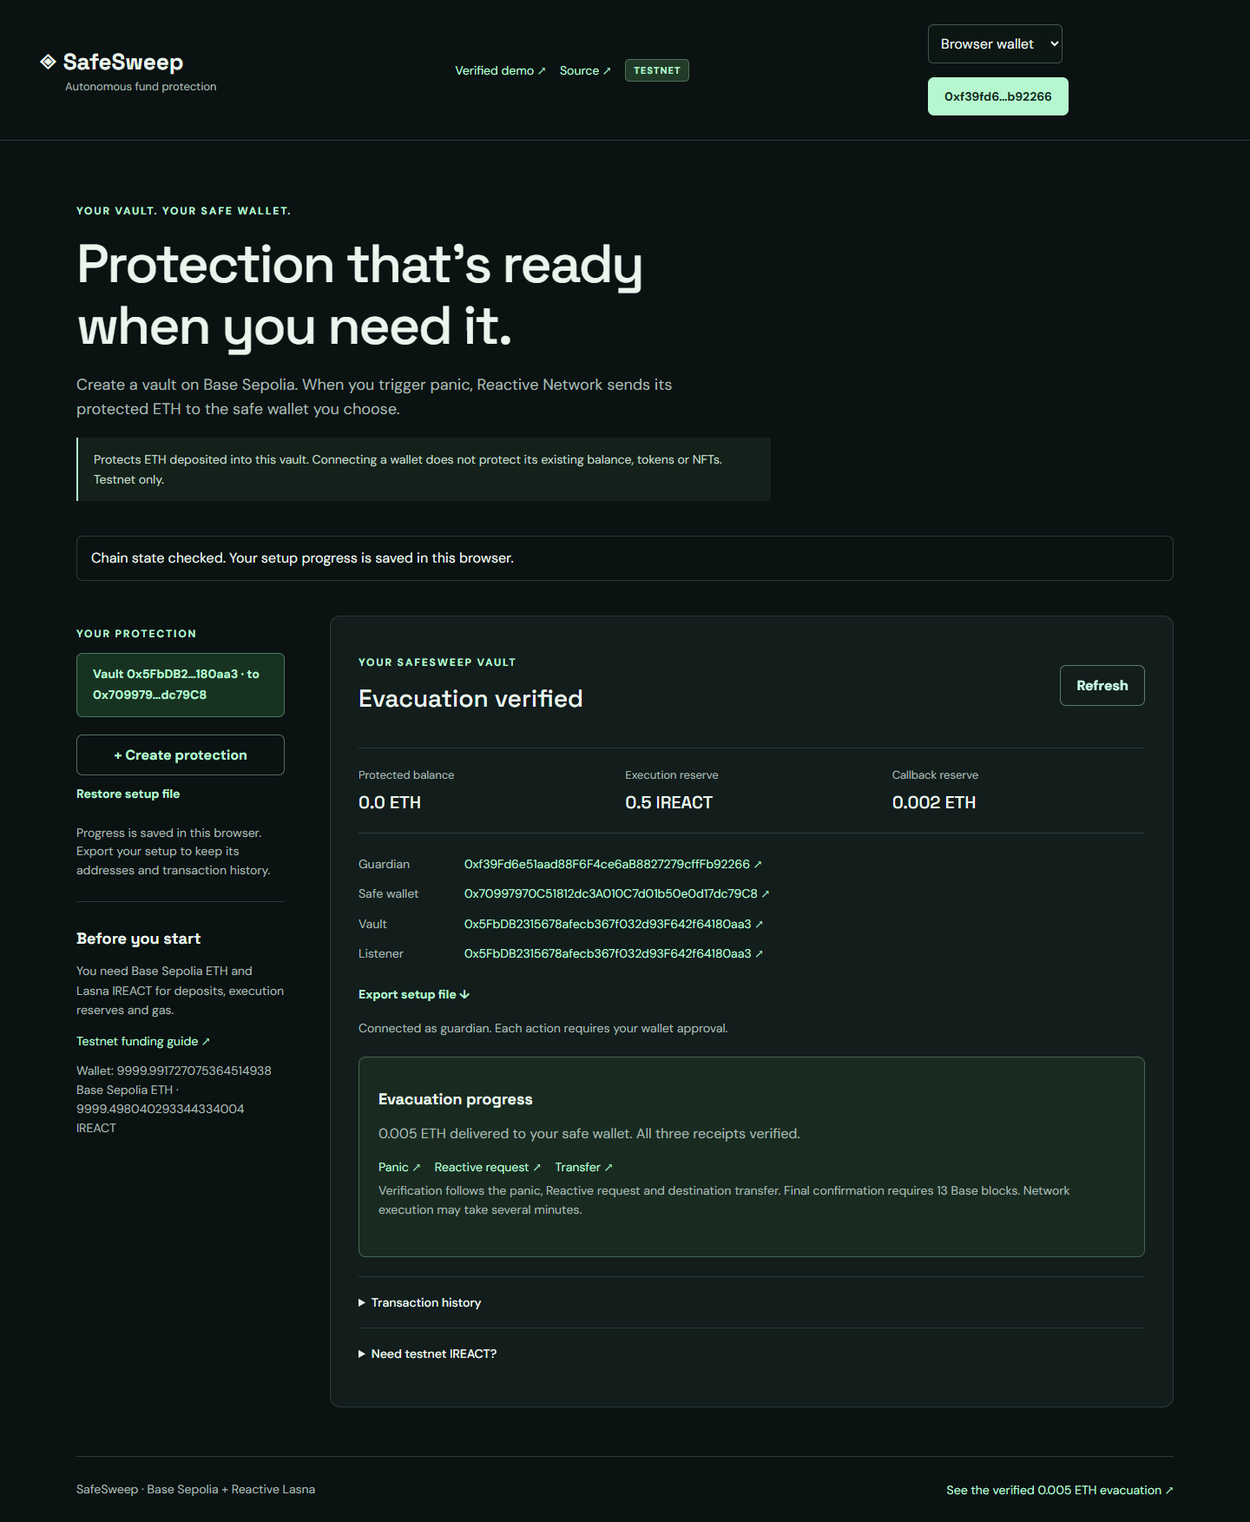
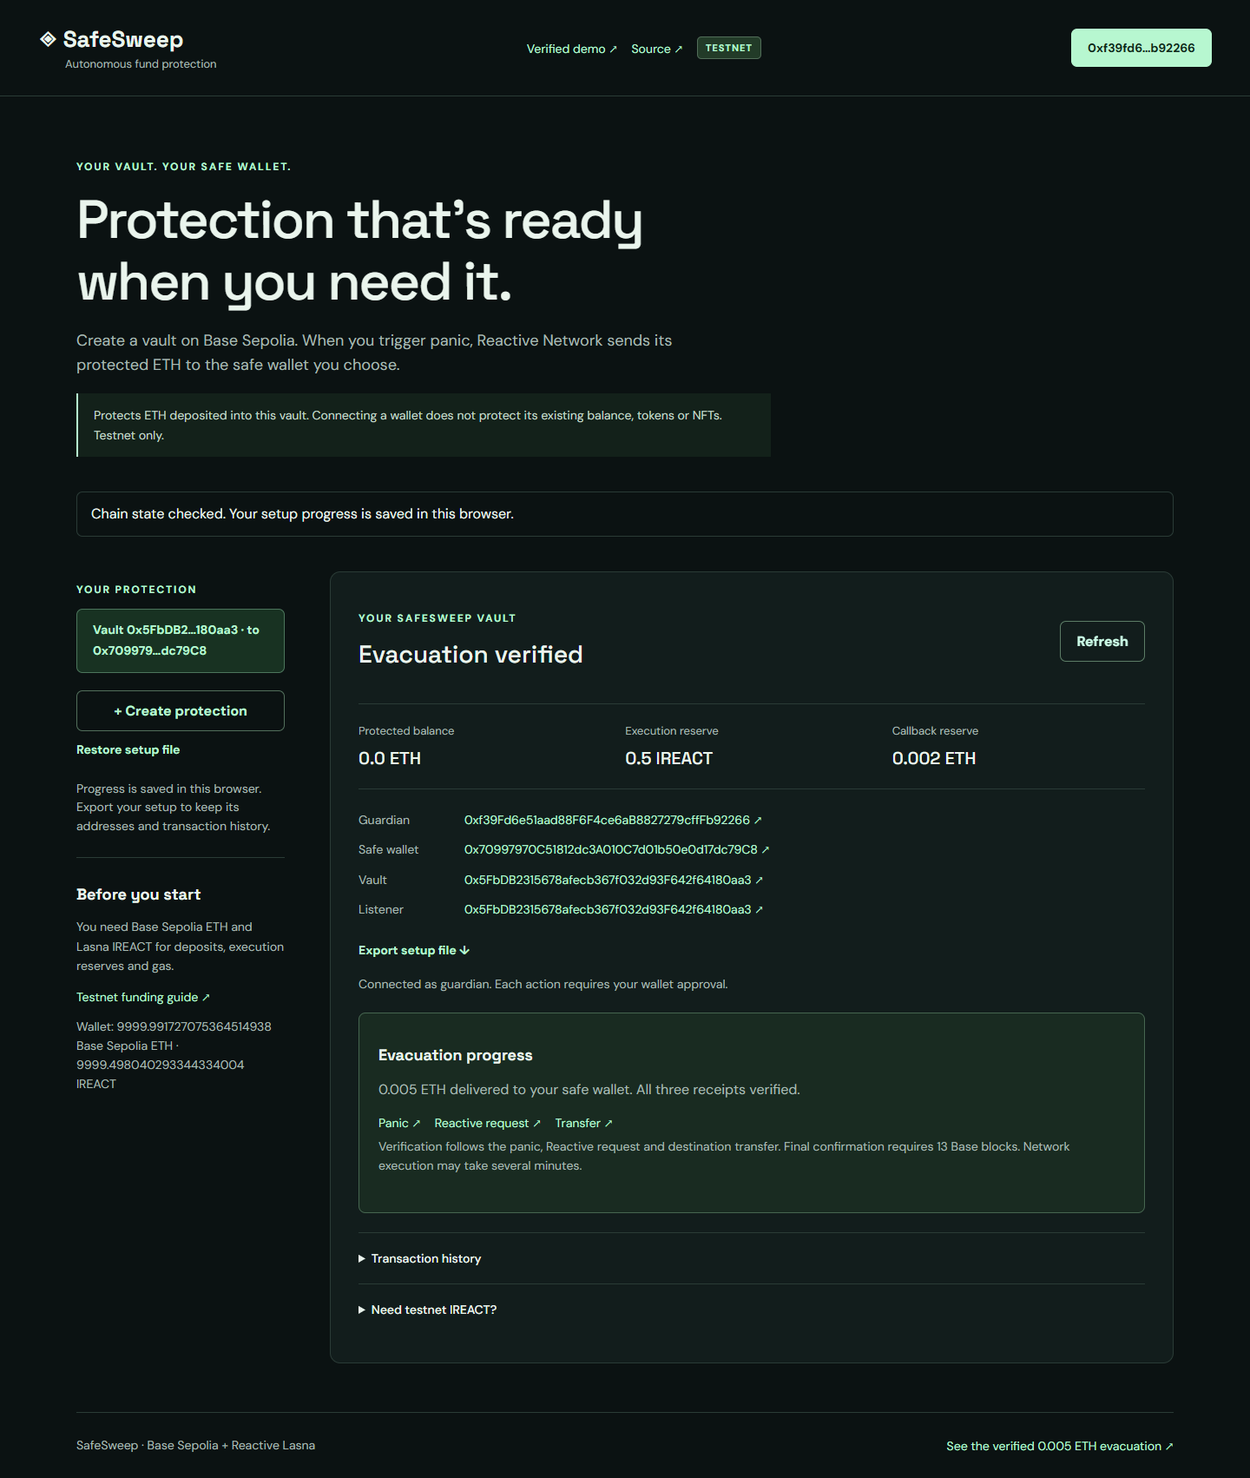
Open discovered wallet options from the Connect button

diff --git a/web/protection.css b/web/protection.css
@@ -1,4 +1,5 @@
 @import url('https://fonts.googleapis.com/css2?family=DM+Sans:wght@400;500;600;700&family=Space+Grotesk:wght@400;500;600;700&display=swap');
-:root{color-scheme:dark;--bg:#0b1212;--panel:#121d1c;--line:#2a3b36;--muted:#a7bab3;--mint:#b7f7d0;--ink:#eaf5ed;--red:#ffb6aa;font-family:'DM Sans',sans-serif;background:var(--bg);color:var(--ink)}*{box-sizing:border-box}body{margin:0}button,input,select{font:inherit}button,a,input,select{touch-action:manipulation}button{border:1px solid var(--mint);border-radius:7px;background:var(--mint);color:#10291c;padding:12px 18px;font-weight:700;cursor:pointer}button:hover:not(:disabled){filter:brightness(1.12)}button:disabled{opacity:.42;cursor:not-allowed}a{color:var(--mint);text-decoration:none}a:hover{text-decoration:underline}button:focus-visible,a:focus-visible,input:focus-visible,summary:focus-visible,select:focus-visible{outline:3px solid #f0cd83;outline-offset:3px}[hidden]{display:none!important}header{max-width:1440px;margin:auto;display:flex;align-items:center;justify-content:space-between;padding:28px 44px;gap:24px;border-bottom:1px solid var(--line)}.brand{font-family:'Space Grotesk',sans-serif;font-size:26px;font-weight:700;color:var(--ink);white-space:nowrap}.brand span{display:block;font-family:'DM Sans',sans-serif;font-size:13px;color:var(--muted);font-weight:400;padding-left:31px;margin-top:3px}nav,.wallet,.actions{display:flex;align-items:center;gap:16px;flex-wrap:wrap}nav{font-size:14px}.badge{border:1px solid #526e59;background:#223b28;color:var(--mint);padding:5px 9px;border-radius:5px;font-size:11px;letter-spacing:1px;font-weight:700}.wallet select{max-width:155px;padding:10px}.wallet select:empty{display:none}main{max-width:1352px;margin:auto;padding:0 44px}.intro{padding:60px 0 24px;max-width:920px}.eyebrow{font-size:12px;letter-spacing:1.9px;font-weight:700;color:var(--mint)}h1,h2,h3{font-family:'Space Grotesk',sans-serif;line-height:1.14;margin:16px 0}h1{font-size:clamp(36px,4.5vw,62px);font-weight:500;letter-spacing:-2px}h2{font-size:28px;font-weight:500}h3{font-size:18px}p{line-height:1.6;color:var(--muted)}.intro>p:not(.eyebrow){font-size:18px;max-width:700px}.scope{padding:14px 18px;border-left:2px solid var(--mint);background:#13211a;color:#c0d8c7;font-size:14px;line-height:1.6;max-width:800px}#notice{min-height:52px;border:1px solid var(--line);padding:12px 16px;border-radius:7px;color:var(--ink);overflow-wrap:anywhere}#notice[data-error=true]{border-color:#9c635b;color:var(--red)}.workspace{display:grid;grid-template-columns:260px minmax(0,1fr);gap:32px;padding:24px 0 56px}aside{padding-right:20px}.panel{background:var(--panel);padding:32px;border:1px solid var(--line);border-radius:12px;min-width:0}.panel>p{max-width:680px}.small,.hint{font-size:14px;color:var(--muted);line-height:1.55}.hint{margin:8px 0 20px}label{display:block;font-size:14px;margin:22px 0 9px;color:var(--ink);font-weight:500}input,select{background:#0c1612;color:var(--ink);border:1px solid #42594b;border-radius:6px;padding:13px;width:100%;min-width:0}input::placeholder{color:#8a9f91}.fields{display:grid;grid-template-columns:repeat(3,minmax(0,1fr));gap:16px}.check{display:flex;gap:12px;align-items:flex-start;font-weight:400;line-height:1.6;margin:22px 0}.check input{width:18px;height:18px;flex-shrink:0;margin-top:3px;accent-color:var(--mint)}.secondary{background:transparent;color:var(--mint);border-color:#526f5b}.text-button{background:none;border:none;color:var(--mint);padding:12px 0;font-size:14px}.wide{width:100%;margin-top:12px}#setups button{display:block;text-align:left;width:100%;background:transparent;border:1px solid transparent;color:var(--muted);margin:8px 0;font-size:14px;line-height:1.7;overflow-wrap:anywhere}#setups button.active{border-color:#4c765c;background:#183222;color:var(--mint)}.resources{border-top:1px solid var(--line);margin-top:24px;padding-top:16px}.resources p,.resources a{font-size:14px}.panel-heading{display:flex;justify-content:space-between;align-items:center;gap:16px}.metrics{display:grid;grid-template-columns:repeat(3,minmax(0,1fr));gap:16px;margin:24px 0;padding:22px 0;border-block:1px solid var(--line)}.metrics span{display:block;font-size:13px;color:var(--muted);margin-bottom:10px}.metrics strong{font-family:'Space Grotesk',sans-serif;font-size:20px;font-weight:500;overflow-wrap:anywhere}dl{display:grid;grid-template-columns:110px minmax(0,1fr);gap:12px;font-size:14px;line-height:1.6}dt{color:var(--muted)}dd{margin:0;overflow-wrap:anywhere}#steps{list-style:none;padding:0;margin:26px 0}#steps li{display:flex;gap:14px;align-items:center;border-top:1px solid var(--line);padding:20px 0}#steps .number{border:1px solid #52765e;border-radius:50%;width:32px;height:32px;flex-shrink:0;display:grid;place-items:center;color:var(--mint)}#steps .step-copy{flex:1;line-height:1.5}#steps small{display:block;font-size:14px;color:var(--muted);margin-top:4px}#steps button{font-size:14px;padding:10px 13px}.callout{background:#192b21;border:1px solid #466650;padding:22px;border-radius:8px;margin:22px 0}.callout input{margin-bottom:10px}.actions button,.actions a{font-size:14px}.panic-box{display:flex;align-items:center;gap:22px;margin:28px 0;padding:24px;border:1px solid #65483d;border-radius:8px;background:#271d17}.panic-box p{font-size:14px;margin-bottom:0}.panic-box button{white-space:nowrap}.danger{background:#ffb6aa;color:#3b1b18;border-color:#ffb6aa}details{border-top:1px solid var(--line);padding:20px 0;font-size:14px}summary{cursor:pointer;color:var(--ink);font-weight:500}details li{margin:12px 0;line-height:1.6;overflow-wrap:anywhere}footer{border-top:1px solid var(--line);padding:28px 0;display:flex;justify-content:space-between;gap:20px;color:var(--muted);font-size:14px}dialog{max-width:600px;width:calc(100% - 32px);border:1px solid #55765e;border-radius:12px;background:var(--panel);color:var(--ink);padding:32px}dialog::backdrop{background:#000b;backdrop-filter:blur(5px)}.close{float:right;background:none;color:var(--muted);border:0;padding:0;font-size:28px}dialog h2{clear:both}dialog #approve{margin-top:12px;width:100%}@media(max-width:1050px){header{flex-wrap:wrap}nav{order:3;width:100%}.workspace{grid-template-columns:210px minmax(0,1fr);gap:20px}.fields{grid-template-columns:1fr}.fields label{margin-top:12px}.panic-box{display:block}.panic-box button{margin-top:18px}.metrics{grid-template-columns:1fr}.metrics div{display:flex;justify-content:space-between;gap:14px}.metrics span{margin:0}.metrics strong{font-size:18px}}@media(max-width:700px){header{padding:22px;gap:20px}.brand{font-size:23px}.wallet{width:100%;justify-content:space-between}.wallet button{flex:1}nav{order:initial;font-size:13px;gap:15px}main{padding:0 20px}.intro{padding:36px 0 16px}h1{letter-spacing:-1.4px}h1 br{display:none}.workspace{display:flex;flex-direction:column;padding-top:8px}aside{padding:0}.resources{display:none}.panel{padding:22px}.panel-heading{align-items:flex-start}h2{font-size:24px}.panel-heading button{padding:9px;font-size:14px}.metrics{gap:20px}dl{grid-template-columns:1fr;gap:5px}dd{margin-bottom:12px}#steps li{flex-wrap:wrap}#steps .step-copy{min-width:160px}#steps button{margin-left:46px}.actions{gap:12px}.actions button{width:100%}footer{display:block;line-height:1.8}footer a{display:block;margin-top:12px}}
+:root{color-scheme:dark;--bg:#0b1212;--panel:#121d1c;--line:#2a3b36;--muted:#a7bab3;--mint:#b7f7d0;--ink:#eaf5ed;--red:#ffb6aa;font-family:'DM Sans',sans-serif;background:var(--bg);color:var(--ink)}*{box-sizing:border-box}body{margin:0}button,input,select{font:inherit}button,a,input,select{touch-action:manipulation}button{border:1px solid var(--mint);border-radius:7px;background:var(--mint);color:#10291c;padding:12px 18px;font-weight:700;cursor:pointer}button:hover:not(:disabled){filter:brightness(1.12)}button:disabled{opacity:.42;cursor:not-allowed}a{color:var(--mint);text-decoration:none}a:hover{text-decoration:underline}button:focus-visible,a:focus-visible,input:focus-visible,summary:focus-visible,select:focus-visible{outline:3px solid #f0cd83;outline-offset:3px}[hidden]{display:none!important}header{max-width:1440px;margin:auto;display:flex;align-items:center;justify-content:space-between;padding:28px 44px;gap:24px;border-bottom:1px solid var(--line)}.brand{font-family:'Space Grotesk',sans-serif;font-size:26px;font-weight:700;color:var(--ink);white-space:nowrap}.brand span{display:block;font-family:'DM Sans',sans-serif;font-size:13px;color:var(--muted);font-weight:400;padding-left:31px;margin-top:3px}nav,.wallet,.actions{display:flex;align-items:center;gap:16px;flex-wrap:wrap}nav{font-size:14px}.badge{border:1px solid #526e59;background:#223b28;color:var(--mint);padding:5px 9px;border-radius:5px;font-size:11px;letter-spacing:1px;font-weight:700}main{max-width:1352px;margin:auto;padding:0 44px}.intro{padding:60px 0 24px;max-width:920px}.eyebrow{font-size:12px;letter-spacing:1.9px;font-weight:700;color:var(--mint)}h1,h2,h3{font-family:'Space Grotesk',sans-serif;line-height:1.14;margin:16px 0}h1{font-size:clamp(36px,4.5vw,62px);font-weight:500;letter-spacing:-2px}h2{font-size:28px;font-weight:500}h3{font-size:18px}p{line-height:1.6;color:var(--muted)}.intro>p:not(.eyebrow){font-size:18px;max-width:700px}.scope{padding:14px 18px;border-left:2px solid var(--mint);background:#13211a;color:#c0d8c7;font-size:14px;line-height:1.6;max-width:800px}#notice{min-height:52px;border:1px solid var(--line);padding:12px 16px;border-radius:7px;color:var(--ink);overflow-wrap:anywhere}#notice[data-error=true]{border-color:#9c635b;color:var(--red)}.workspace{display:grid;grid-template-columns:260px minmax(0,1fr);gap:32px;padding:24px 0 56px}aside{padding-right:20px}.panel{background:var(--panel);padding:32px;border:1px solid var(--line);border-radius:12px;min-width:0}.panel>p{max-width:680px}.small,.hint{font-size:14px;color:var(--muted);line-height:1.55}.hint{margin:8px 0 20px}label{display:block;font-size:14px;margin:22px 0 9px;color:var(--ink);font-weight:500}input,select{background:#0c1612;color:var(--ink);border:1px solid #42594b;border-radius:6px;padding:13px;width:100%;min-width:0}input::placeholder{color:#8a9f91}.fields{display:grid;grid-template-columns:repeat(3,minmax(0,1fr));gap:16px}.check{display:flex;gap:12px;align-items:flex-start;font-weight:400;line-height:1.6;margin:22px 0}.check input{width:18px;height:18px;flex-shrink:0;margin-top:3px;accent-color:var(--mint)}.secondary{background:transparent;color:var(--mint);border-color:#526f5b}.text-button{background:none;border:none;color:var(--mint);padding:12px 0;font-size:14px}.wide{width:100%;margin-top:12px}#setups button{display:block;text-align:left;width:100%;background:transparent;border:1px solid transparent;color:var(--muted);margin:8px 0;font-size:14px;line-height:1.7;overflow-wrap:anywhere}#setups button.active{border-color:#4c765c;background:#183222;color:var(--mint)}.resources{border-top:1px solid var(--line);margin-top:24px;padding-top:16px}.resources p,.resources a{font-size:14px}.panel-heading{display:flex;justify-content:space-between;align-items:center;gap:16px}.metrics{display:grid;grid-template-columns:repeat(3,minmax(0,1fr));gap:16px;margin:24px 0;padding:22px 0;border-block:1px solid var(--line)}.metrics span{display:block;font-size:13px;color:var(--muted);margin-bottom:10px}.metrics strong{font-family:'Space Grotesk',sans-serif;font-size:20px;font-weight:500;overflow-wrap:anywhere}dl{display:grid;grid-template-columns:110px minmax(0,1fr);gap:12px;font-size:14px;line-height:1.6}dt{color:var(--muted)}dd{margin:0;overflow-wrap:anywhere}#steps{list-style:none;padding:0;margin:26px 0}#steps li{display:flex;gap:14px;align-items:center;border-top:1px solid var(--line);padding:20px 0}#steps .number{border:1px solid #52765e;border-radius:50%;width:32px;height:32px;flex-shrink:0;display:grid;place-items:center;color:var(--mint)}#steps .step-copy{flex:1;line-height:1.5}#steps small{display:block;font-size:14px;color:var(--muted);margin-top:4px}#steps button{font-size:14px;padding:10px 13px}.callout{background:#192b21;border:1px solid #466650;padding:22px;border-radius:8px;margin:22px 0}.callout input{margin-bottom:10px}.actions button,.actions a{font-size:14px}.panic-box{display:flex;align-items:center;gap:22px;margin:28px 0;padding:24px;border:1px solid #65483d;border-radius:8px;background:#271d17}.panic-box p{font-size:14px;margin-bottom:0}.panic-box button{white-space:nowrap}.danger{background:#ffb6aa;color:#3b1b18;border-color:#ffb6aa}details{border-top:1px solid var(--line);padding:20px 0;font-size:14px}summary{cursor:pointer;color:var(--ink);font-weight:500}details li{margin:12px 0;line-height:1.6;overflow-wrap:anywhere}footer{border-top:1px solid var(--line);padding:28px 0;display:flex;justify-content:space-between;gap:20px;color:var(--muted);font-size:14px}dialog{max-width:600px;width:calc(100% - 32px);border:1px solid #55765e;border-radius:12px;background:var(--panel);color:var(--ink);padding:32px}dialog::backdrop{background:#000b;backdrop-filter:blur(5px)}.close{float:right;background:none;color:var(--muted);border:0;padding:0;font-size:28px}dialog h2{clear:both}dialog #approve{margin-top:12px;width:100%}@media(max-width:1050px){header{flex-wrap:wrap}nav{order:3;width:100%}.workspace{grid-template-columns:210px minmax(0,1fr);gap:20px}.fields{grid-template-columns:1fr}.fields label{margin-top:12px}.panic-box{display:block}.panic-box button{margin-top:18px}.metrics{grid-template-columns:1fr}.metrics div{display:flex;justify-content:space-between;gap:14px}.metrics span{margin:0}.metrics strong{font-size:18px}}@media(max-width:700px){header{padding:22px;gap:20px}.brand{font-size:23px}.wallet{width:100%;justify-content:space-between}.wallet button{flex:1}nav{order:initial;font-size:13px;gap:15px}main{padding:0 20px}.intro{padding:36px 0 16px}h1{letter-spacing:-1.4px}h1 br{display:none}.workspace{display:flex;flex-direction:column;padding-top:8px}aside{padding:0}.resources{display:none}.panel{padding:22px}.panel-heading{align-items:flex-start}h2{font-size:24px}.panel-heading button{padding:9px;font-size:14px}.metrics{gap:20px}dl{grid-template-columns:1fr;gap:5px}dd{margin-bottom:12px}#steps li{flex-wrap:wrap}#steps .step-copy{min-width:160px}#steps button{margin-left:46px}.actions{gap:12px}.actions button{width:100%}footer{display:block;line-height:1.8}footer a{display:block;margin-top:12px}}
 
 .wallet button{white-space:nowrap;font-size:14px}
+#walletPicker{max-width:480px}#walletOptions{display:grid;gap:12px;margin:24px 0}.wallet-option{display:flex;align-items:center;gap:14px;width:100%;padding:16px;background:#182a20;border:1px solid #425f4b;color:var(--ink);text-align:left}.wallet-mark{display:grid;place-items:center;flex-shrink:0;width:40px;height:40px;border-radius:10px;background:#2d4935;color:var(--mint);font-family:'Space Grotesk',sans-serif;font-size:22px}.wallet-name{flex:1;overflow-wrap:anywhere}.wallet-option small{flex-shrink:0;font-size:13px;color:var(--mint);font-weight:400}#walletStatus{min-height:26px}#walletEmpty{margin-top:20px}@media(max-width:400px){#walletPicker{padding:24px}.wallet-option{padding:12px;gap:10px}.wallet-option small{font-size:12px}}

diff --git a/web/index.html b/web/index.html
@@ -2,7 +2,7 @@
 <html lang="en">
 <head><meta charset="UTF-8"><meta name="viewport" content="width=device-width, initial-scale=1"><meta name="description" content="Create your own SafeSweep testnet vault and evacuate protected ETH to your safe wallet with Reactive Network."><title>SafeSweep · Create protection</title><link rel="stylesheet" href="protection.css"></head>
 <body>
-<header><a class="brand" href="/">◈ SafeSweep<span>Autonomous fund protection</span></a><nav><a href="demo.html">Verified demo ↗</a><a href="https://github.com/Reelmemory/SafeSweep" target="_blank" rel="noreferrer">Source ↗</a><span class="badge">TESTNET</span></nav><div class="wallet"><select id="walletChoice" aria-label="Choose wallet"></select><button id="connect">Connect wallet</button></div></header>
+<header><a class="brand" href="/">◈ SafeSweep<span>Autonomous fund protection</span></a><nav><a href="demo.html">Verified demo ↗</a><a href="https://github.com/Reelmemory/SafeSweep" target="_blank" rel="noreferrer">Source ↗</a><span class="badge">TESTNET</span></nav><div class="wallet"><button id="connect">Connect wallet</button></div></header>
 <main><section class="intro"><p class="eyebrow">YOUR VAULT. YOUR SAFE WALLET.</p><h1>Protection that's ready <br>when you need it.</h1><p>Create a vault on Base Sepolia. When you trigger panic, Reactive Network sends its protected ETH to the safe wallet you choose.</p><div class="scope">Protects ETH deposited into this vault. Connecting a wallet does not protect its existing balance, tokens or NFTs. Testnet only.</div></section>
 <p id="notice" role="status" aria-live="polite">Connect a browser wallet to get started.</p>
 <div class="workspace"><aside><p class="eyebrow">YOUR PROTECTION</p><div id="setups"></div><button id="newSetup" class="secondary wide">+ Create protection</button><button id="importButton" class="text-button" disabled>Restore setup file</button><input type="file" id="importFile" accept="application/json,.json" hidden><p class="small">Progress is saved in this browser. Export your setup to keep its addresses and transaction history.</p><div class="resources"><h3>Before you start</h3><p>You need Base Sepolia ETH and Lasna lREACT for deposits, execution reserves and gas.</p><a href="https://dev.reactive.network/reactive-mainnet" target="_blank" rel="noreferrer">Testnet funding guide ↗</a><p id="walletBalances" class="small"></p></div></aside>
@@ -13,4 +13,5 @@
 <section id="incidentPanel" class="callout" hidden><h3>Evacuation progress</h3><p id="incidentStatus"></p><div id="incidentLinks" class="actions"></div><p class="hint">Verification follows the panic, Reactive request and destination transfer. Final confirmation requires 13 Base blocks. Network execution may take several minutes.</p></section><details><summary>Transaction history</summary><ul id="history"></ul></details><details><summary>Need testnet lREACT?</summary><p>The Reactive faucet exchanges 0.01 Base Sepolia ETH for 1 lREACT sent to this guardian on Lasna. Delivery is asynchronous; check your balance before continuing.</p><button id="faucet" class="secondary">Review lREACT request</button></details></section></div>
 <footer>SafeSweep · Base Sepolia + Reactive Lasna <a href="demo.html">See the verified 0.005 ETH evacuation ↗</a></footer></main>
 <dialog id="review"><form method="dialog"><button class="close" aria-label="Close review">×</button></form><p class="eyebrow">REVIEW TRANSACTION</p><h2 id="reviewTitle"></h2><dl id="reviewDetails"></dl><p id="reviewNote"></p><p class="hint">Your wallet will show the transaction and network gas fee. Check the recipient and amount before approving.</p><button id="approve">Continue in wallet</button></dialog>
+<dialog id="walletPicker" aria-labelledby="walletPickerTitle" aria-describedby="walletStatus"><form method="dialog"><button class="close" aria-label="Close wallet picker">×</button></form><p class="eyebrow">YOUR WALLET</p><h2 id="walletPickerTitle">Connect a wallet</h2><p id="walletStatus" role="status" aria-live="polite">Choose an available wallet to continue.</p><div id="walletOptions"></div><div id="walletEmpty" class="callout" hidden><h3>No wallets detected</h3><p>Open SafeSweep in your wallet’s browser, or install an Ethereum wallet extension and refresh this page.</p></div><p class="hint">Connecting shares your public address. You approve transactions separately in your wallet.</p></dialog>
 <script type="module" src="protection.mjs"></script></body></html>

diff --git a/docs/VALIDATION.md b/docs/VALIDATION.md
@@ -29,6 +29,8 @@ The Windows rehearsal additionally validates local deployment, reserve funding, 
 
 ## Self-service browser release
 
+The Connect wallet picker is covered with two announced wallet providers, duplicate-provider suppression, Escape dismissal, rejected wallet switches preserving the previous connection, successful switching, stale events from the previous provider, no-wallet guidance and legacy browser-wallet injection. Desktop and mobile picker screenshots use simulated providers. The full setup/evacuation rehearsal also uses the picker after page reloads.
+
 `npm run test:protection` runs two isolated Anvil chains and a real browser. It deploys each user's contracts through the injected wallet interface, submits all six setup transactions, reloads with a pending hash, recovers a broadcast whose wallet response was lost, rejects wrong accounts/chains and signatures, exports/imports setup, checks modified bytecode/immutable destinations/service debt, and completes panic → reaction → callback with exactly 0.005 ETH received and a retired empty vault. Desktop, tablet and mobile layouts have no horizontal overflow or page errors. Local mocks stand in for network relay infrastructure; their hashes are never public proof.
 
 The new engine also has unit regressions for malformed amounts/imports, receipt substitution, bounded 200-block scans, preparation errors and confirmed wallet cancellation. CI runs contract tests, evidence tests, frontend unit tests and the two-chain browser rehearsal. Public compatibility checks use `node scripts/web/check-public-protection.mjs` and never send a transaction. A fresh public setup signed by a real wallet extension has not been performed for this release.

diff --git a/docs/CREATE-PROTECTION.md b/docs/CREATE-PROTECTION.md
@@ -2,7 +2,7 @@
 
 Open [SafeSweep](https://safesweep-pj.vercel.app) in a browser with an Ethereum wallet extension, or in a wallet's browser that exposes an EIP-1193 provider. EIP-6963 wallet discovery is supported. WalletConnect QR pairing and native mobile deep links are not included.
 
-1. Connect the account that will be your guardian. This account triggers panic.
+1. Click **Connect wallet**, choose one of the wallets detected in the picker, and approve the connection. The connected account becomes your guardian and triggers panic. Click the connected address to reopen the picker and switch wallets.
 2. Enter a separate receiving wallet that you control. The setup accepts addresses without deployed contract code. The guardian and receiving address are immutable.
 3. Choose the protected amount and execution reserves. Defaults: 0.005 Base Sepolia ETH in the vault, 0.002 ETH in the callback reserve, and 0.5 lREACT in the Reactive execution reserve. Keep additional testnet funds for deployment and transaction gas.
 4. Review each of the six transactions and approve it in your wallet. The app switches between Lasna (5318007) and Base Sepolia (84532), and waits for two confirmations before advancing.
